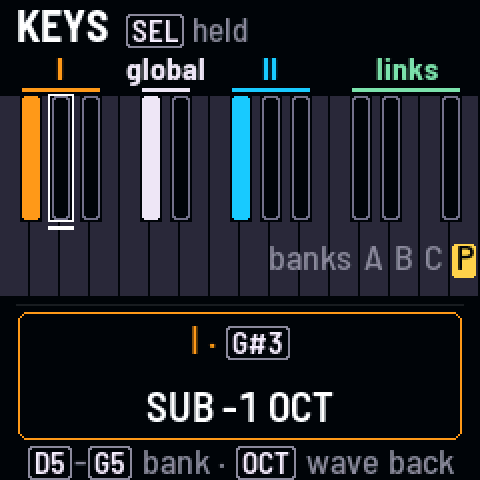
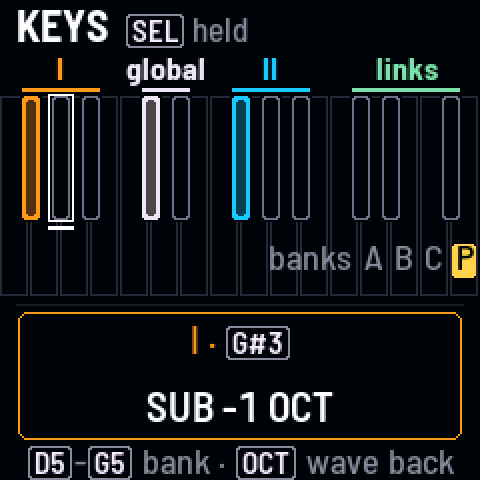
The SEL key map in outlines: the white keys outlined on the ground, a lit key outlined in its group's color with a dim glow (Evan, 2026-11-07: of four, B; the slate keyboard was the one big flat fill)

Changed region(s): [[0.0, 0.1875, 1.0, 0.625]]

diff --git a/firmware/src/app/look.c b/firmware/src/app/look.c
@@ -2636,8 +2636,9 @@ static void lk_keymap(void)
     }
     cv_blit(0, 0);
     cv_begin(240, LK_PIC_H, LK_BG);            /* the keyboard */
-    for (i = 0; i < 16; i++)                   /* the white keys, 15 px each, a gap between */
-        cv_rect(i * 15, LK_KEY_Y, 14, LK_KEY_WH, LK_WHITE_KEY);
+    for (i = 0; i < 16; i++)                   /* the white keys, 15 px each, as outlines on the ground (Evan, 2026-11-07:
+                                                * the filled slate keyboard was the one big flat fill on any screen) */
+        lk_box(i * 15, LK_KEY_Y, 14, LK_KEY_WH, LK_WHITE_KEY);
     {                                          /* D5-G5 with SEL: the banks */
         const int32_t base = LK_KEY_Y + 87;
         cv_text(12 * 15 - 4 - text_w(&LK_F_SMALL, "banks"), base - LK_B(LK_F_SMALL), &LK_F_SMALL, "banks", LK_LABEL);
@@ -2649,14 +2650,17 @@ static void lk_keymap(void)
             cv_text(cx - text_w(&LK_F_SMALL, l) / 2, base - LK_B(LK_F_SMALL), &LK_F_SMALL, l, on ? LK_BG : LK_LABEL);
         }
     }
-    for (i = 0; i < 11; i++) {                 /* the black keys: lit as the panel's (a third choice: half) */
+    for (i = 0; i < 11; i++) {                 /* the black keys, lit as the panel's */
         const int32_t x = LK_KX[i];
         const int on = lk_key_on(i);
         const uint32_t c = lk_kgroup(i)->col;
         cv_rect(x - 1, LK_KEY_Y, 11, LK_KEY_BH + 1, LK_BG);   /* the gap around it, as on the keyboard */
-        if (on)
-            cv_round(x, LK_KEY_Y, 9, LK_KEY_BH, 2, on == 2 ? lk_mix(0x07060Bu, c, 0.5f) : lk_mix(c, c, 0.0f));
-        else {
+        if (on) {                              /* lit: outlined in its group's color, glowing dimly inside (a third
+                                                * choice, half as bright) */
+            const uint32_t cc = on == 2 ? lk_mix888(0x07060Bu, c, 0.5f) : c;
+            cv_round(x, LK_KEY_Y, 9, LK_KEY_BH, 2, lk_mix(cc, cc, 0.0f));
+            cv_round(x + 2, LK_KEY_Y + 2, 5, LK_KEY_BH - 4, 1, lk_mix(0x07060Bu, cc, 0.3f));
+        } else {
             cv_round(x, LK_KEY_Y, 9, LK_KEY_BH, 2, LK_TRACK);
             cv_round(x + 1, LK_KEY_Y + 1, 7, LK_KEY_BH - 2, 1, LK_BG);
         }
